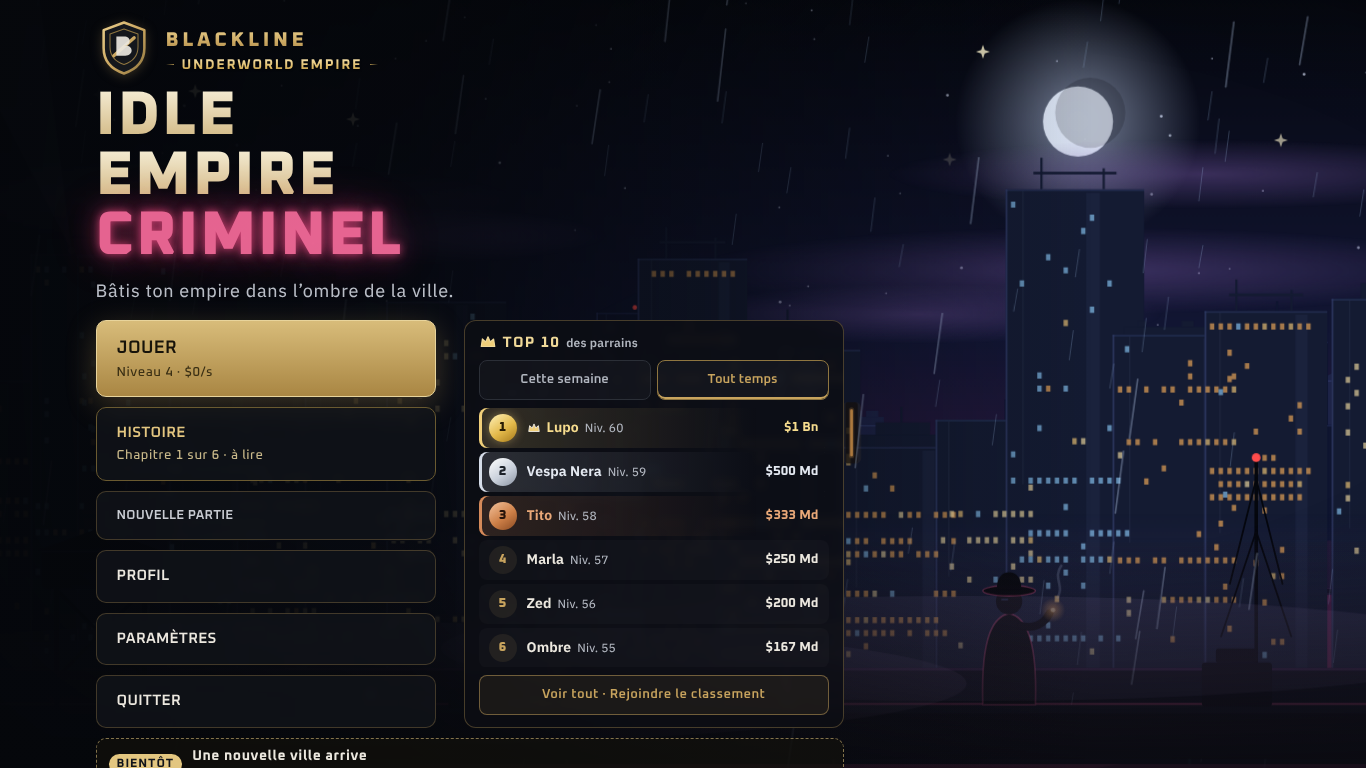
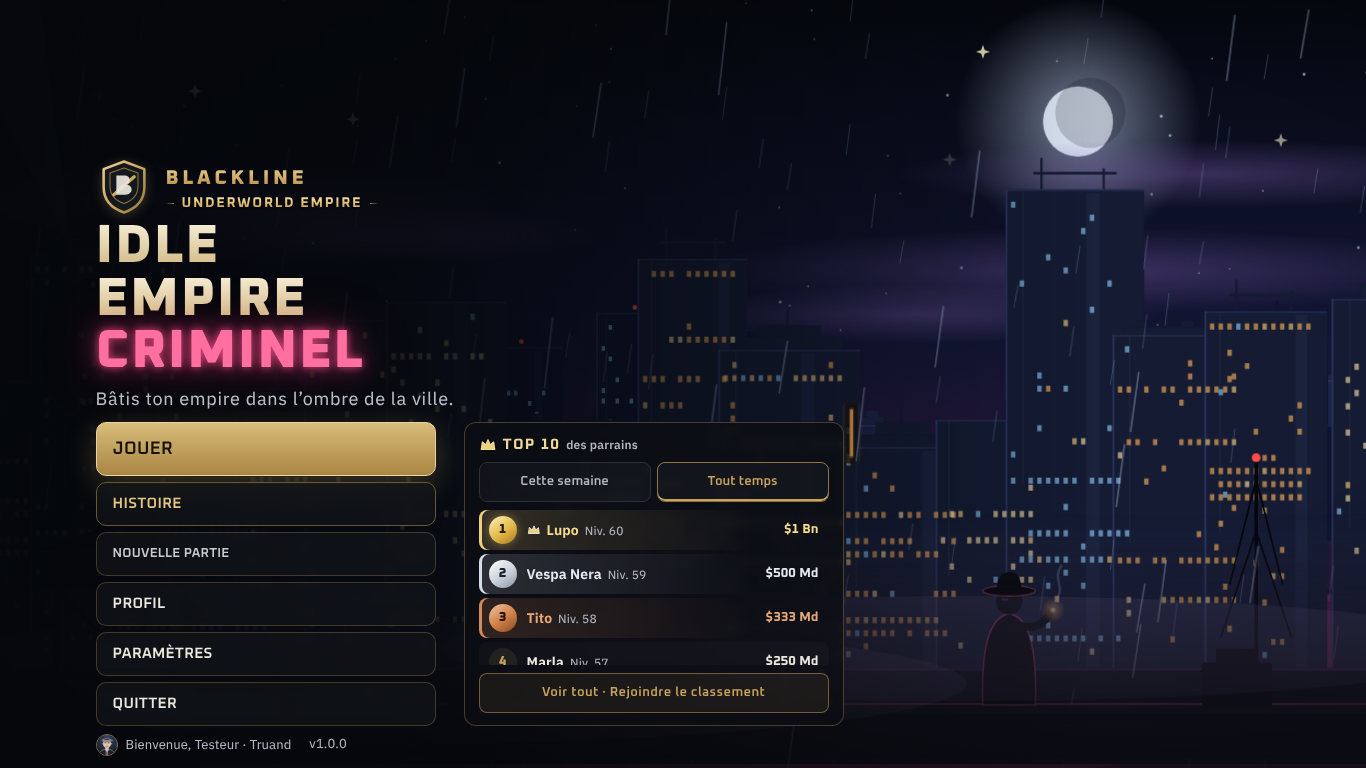
Menu : plus de barre de défilement visible sur la colonne, menu compact sur écran peu haut, barre fine dans le tableau du classement
Claude-Session: https://claude.ai/code/session_0156j4J8KJCVz7kjk9PALSQT

diff --git a/css/style.css b/css/style.css
@@ -1797,3 +1797,17 @@ body.nomotion .wart *,body.lowfx .wart *,body.nomotion .winaug,body.nomotion .wi
 .sg-intl{display:grid;gap:8px;grid-template-columns:repeat(auto-fit,minmax(200px,1fr))}.sg-intb{display:grid;gap:3px;text-align:left;padding:10px 12px;min-height:44px;border-radius:10px;border:1px solid var(--line);background:rgba(255,255,255,.03);color:var(--txt);cursor:pointer;font:inherit}
 .sg-intb b{font:700 14px var(--font-display);color:var(--gold)}.sg-intb span{font-size:13px}.sg-intb small{font-size:12px;color:var(--mut)}.sg-intb:disabled{opacity:.6;cursor:default}
 @media(max-width:560px){.in-grid{grid-template-columns:minmax(0,1fr)}.mini-box{padding:12px}.ac-t th,.ac-t td{padding:5px 3px}.lp-set{min-width:140px}}
+
+/* menu : aucune barre de défilement visible sur la colonne (le menu reste défilable à la molette / au doigt / au clavier si l'écran est vraiment trop bas) ;
+   la seule barre visible est celle, fine et dorée, DANS le tableau du classement */
+.mbox2{scrollbar-width:none;-ms-overflow-style:none}.mbox2::-webkit-scrollbar{display:none;width:0;height:0}
+.mlb-rows,.lb-rows{scrollbar-width:thin;scrollbar-color:rgba(200,164,94,.55) transparent}
+.mlb-rows::-webkit-scrollbar,.lb-rows::-webkit-scrollbar{width:6px}
+.mlb-rows::-webkit-scrollbar-track,.lb-rows::-webkit-scrollbar-track{background:transparent}
+.mlb-rows::-webkit-scrollbar-thumb,.lb-rows::-webkit-scrollbar-thumb{background:rgba(200,164,94,.45);border-radius:6px}
+.mlb-rows::-webkit-scrollbar-thumb:hover,.lb-rows::-webkit-scrollbar-thumb:hover{background:rgba(200,164,94,.75)}
+/* fenêtre peu haute (ordinateur portable, navigateur avec barres) : le menu se compacte pour tenir sans défiler */
+@media(min-width:801px) and (max-height:860px){.mtag{margin:6px 0 10px}.mbtn{min-height:44px;padding:8px 16px}.mbtn.primary{min-height:54px}.mbtn small{display:none}.mnav{gap:6px}.mfoot{margin-top:8px}.mbox2{padding-top:12px;padding-bottom:12px}.mlogo{margin-bottom:6px}}
+@media(min-width:801px) and (max-height:820px){.msoon,.mcredit{display:none}.mtitle{font-size:clamp(30px,min(5vw,7vh),56px)}}
+@media(min-width:801px) and (max-height:600px){.mlogo{display:none}.mtag{display:none}}
+@media(min-width:1000px) and (max-height:980px){.mcredit{display:none}}
